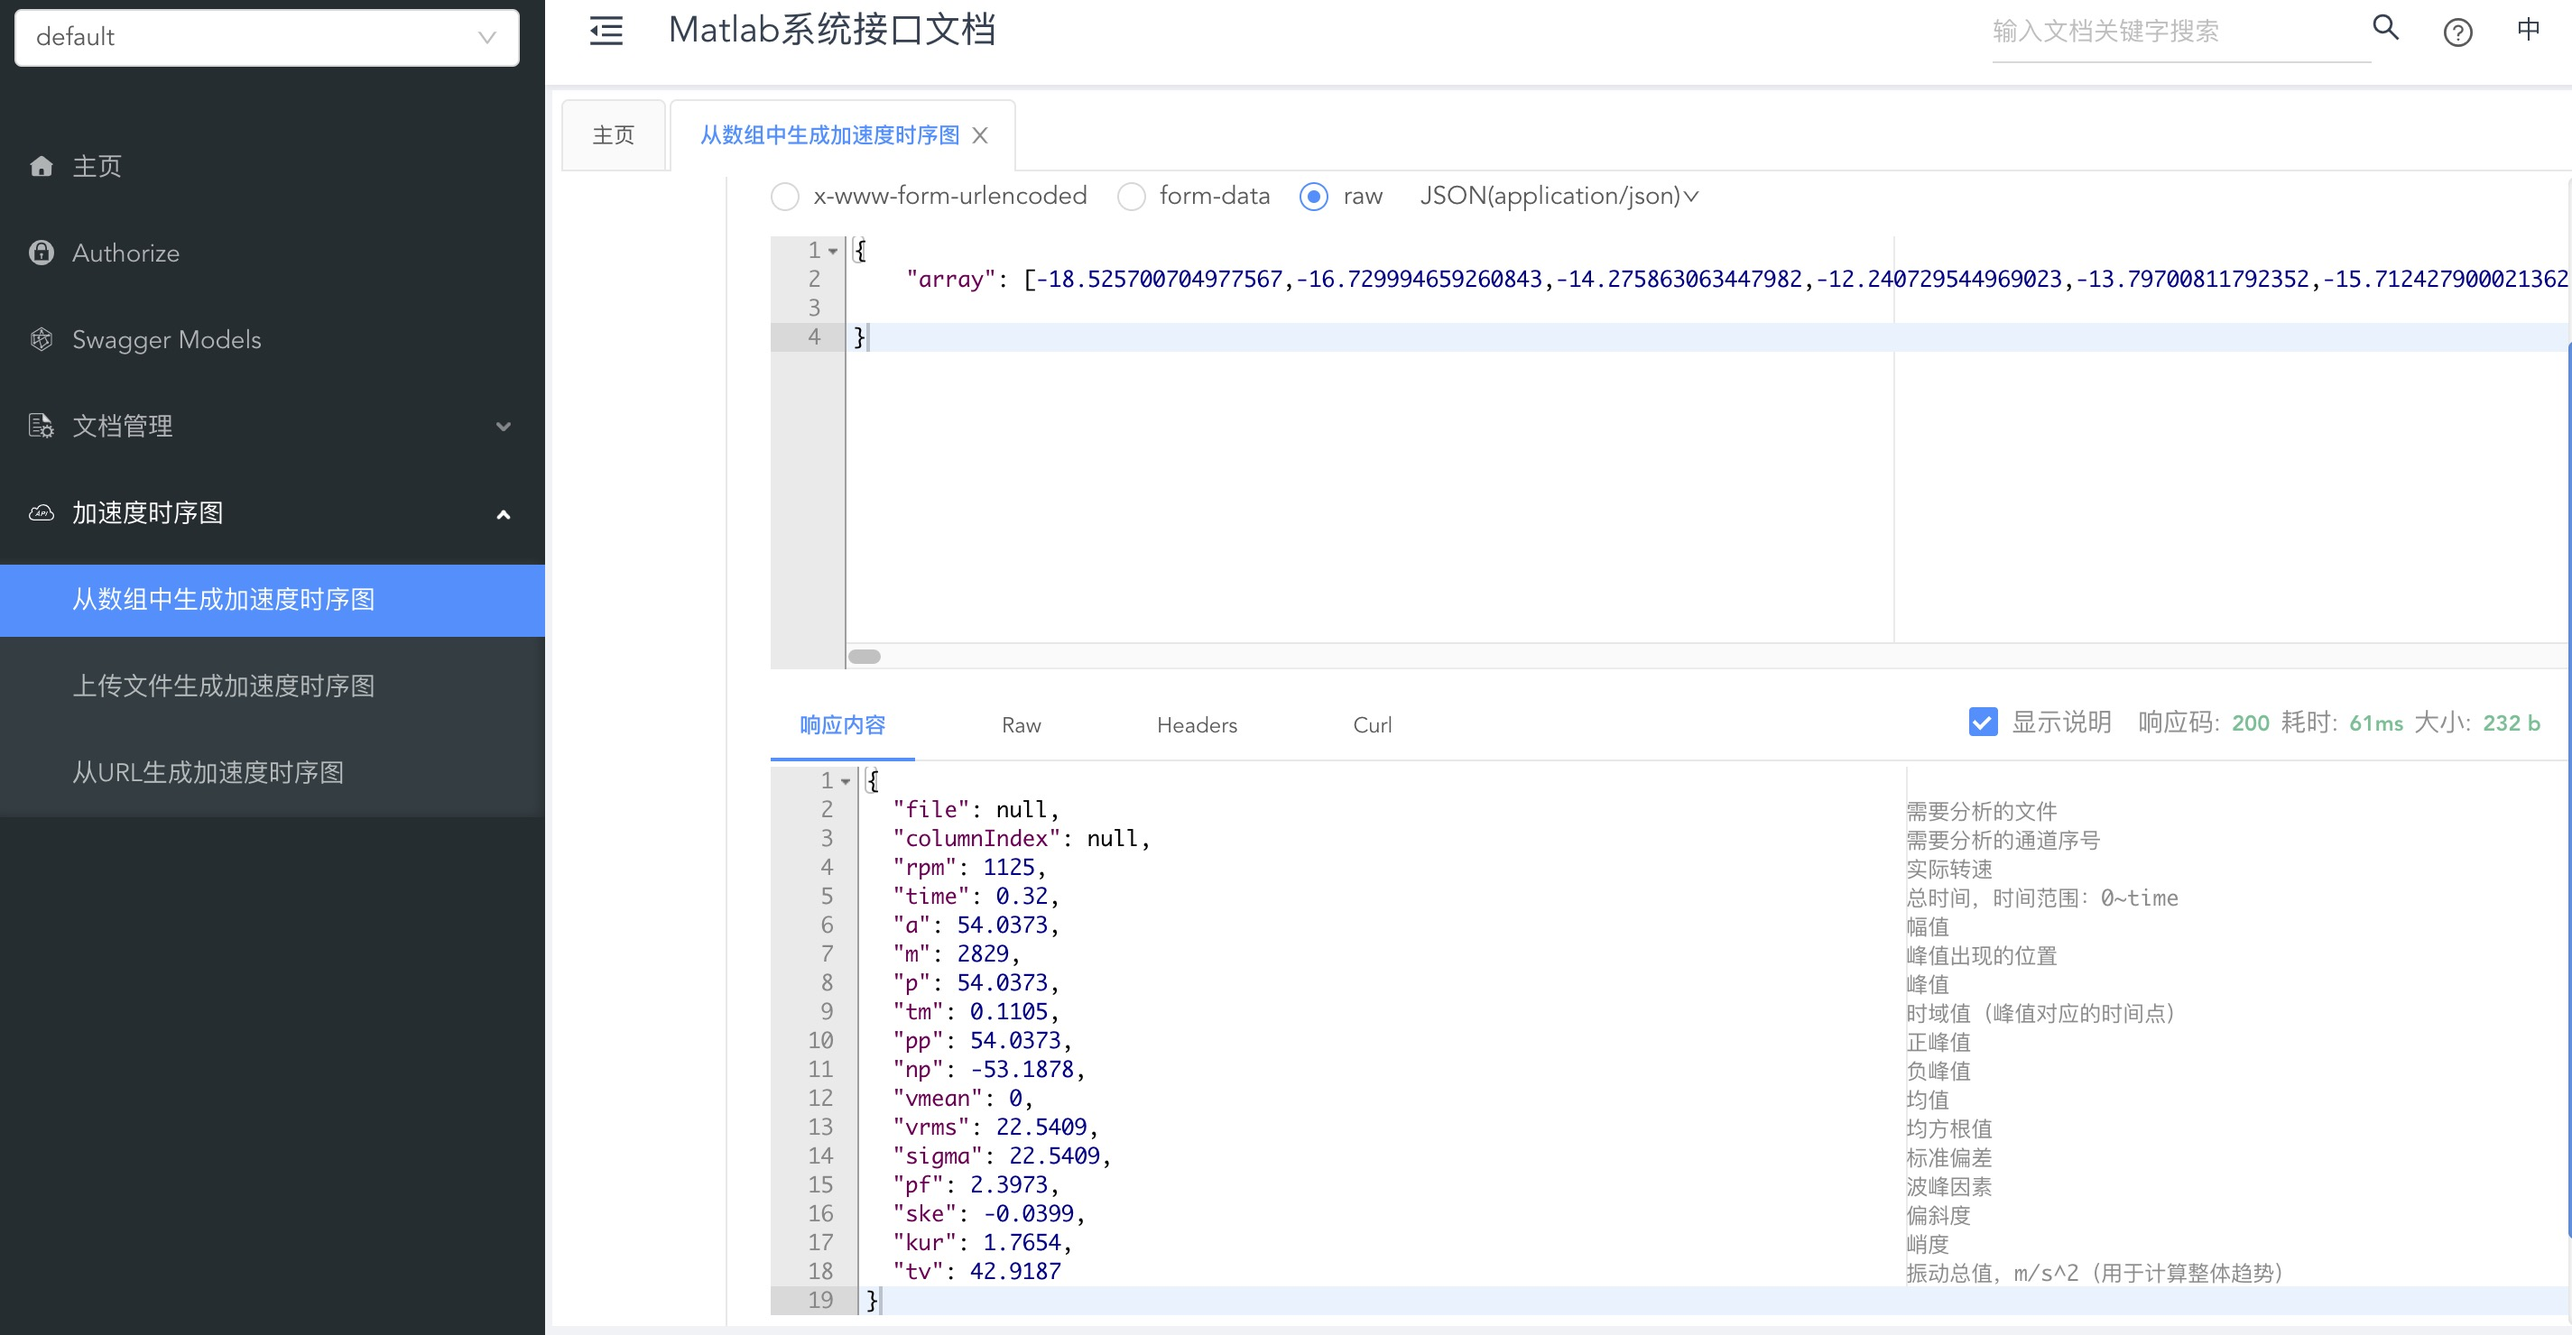
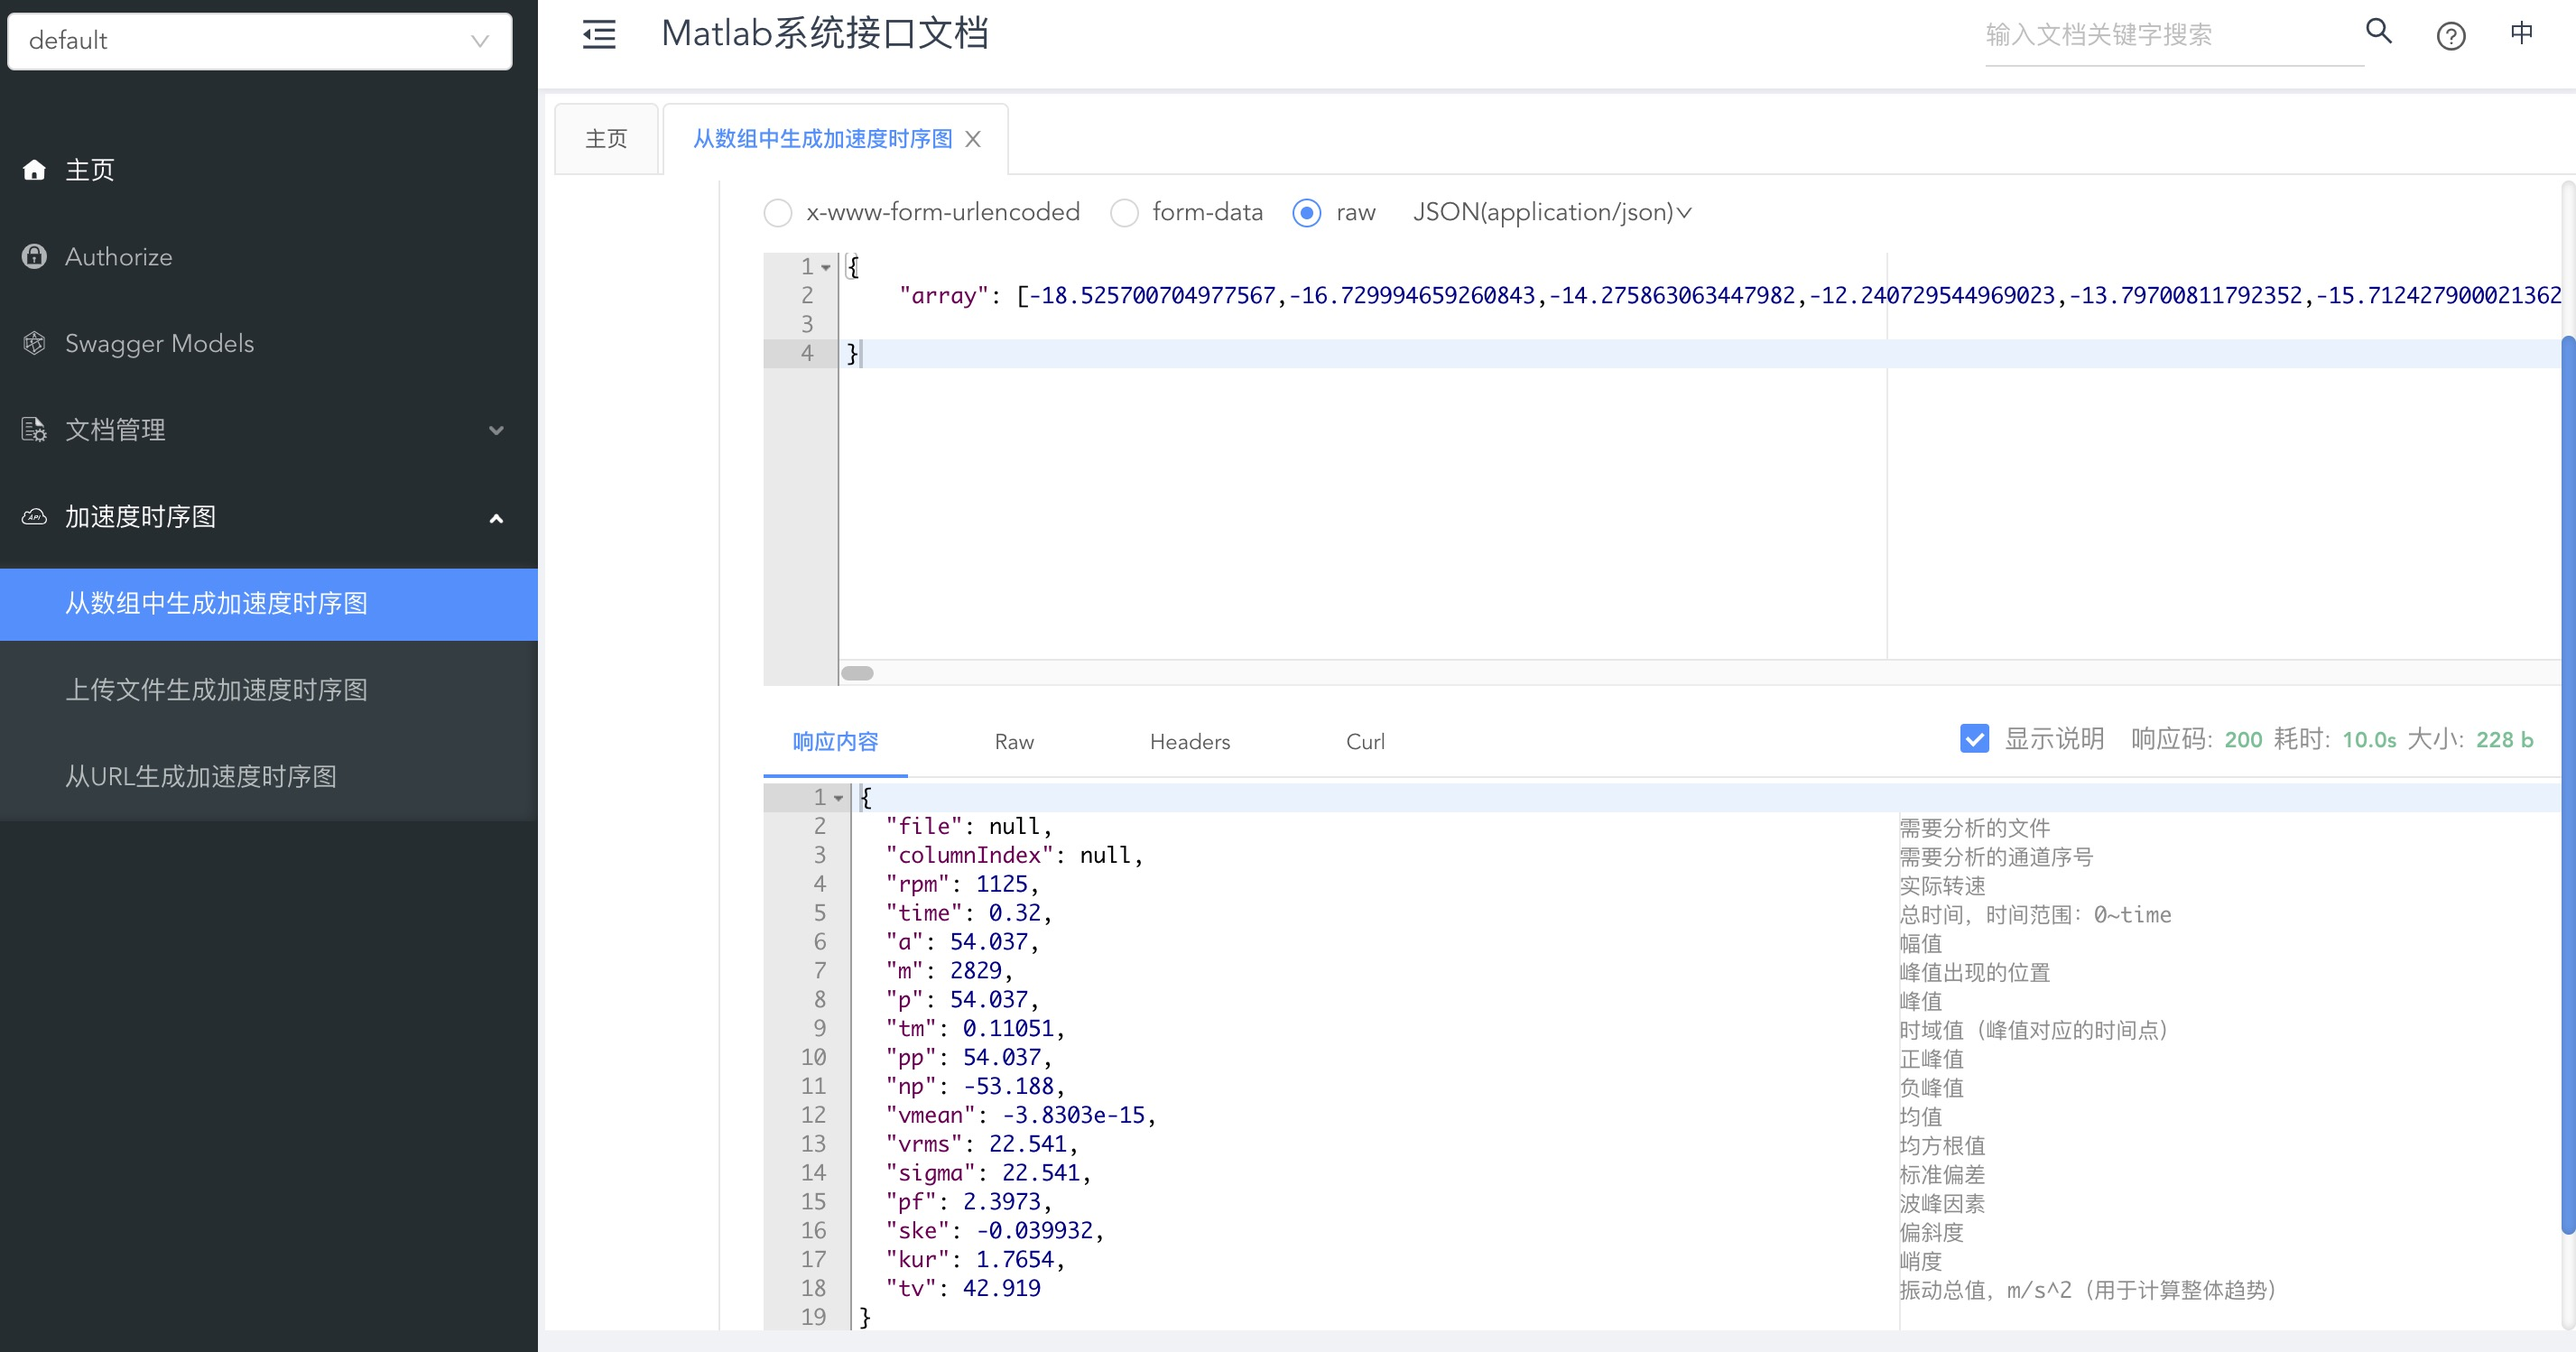
update readme

diff --git a/matlab-kernel/src/main/java/com/tp/matlab/kernel/util/NumberFormatUtils.java b/matlab-kernel/src/main/java/com/tp/matlab/kernel/util/NumberFormatUtils.java
@@ -13,7 +13,7 @@ import java.text.DecimalFormat;
 @UtilityClass
 public class NumberFormatUtils {
     //科学技术计数法保留4位小数
-    private static final DecimalFormat FOUR_DECIMAL_DF = new DecimalFormat("#.0000");
+    private static final DecimalFormat FOUR_DECIMAL_DF = new DecimalFormat("#.0000E0");
     //科学技术计数法保留5位有效数字
     private static final DecimalFormat FIVE_DIGITS_DF = new DecimalFormat("0.####E0");
 

diff --git a/README.md b/README.md
@@ -44,3 +44,4 @@ cd logs
 
 ### 示例
 ![image](https://github.com/s886259/matlab-parent/blob/master/image/1417_time_domain_1.jpg)
+![image](https://github.com/s886259/matlab-parent/blob/master/image/1417_time_domain_2.jpg)
